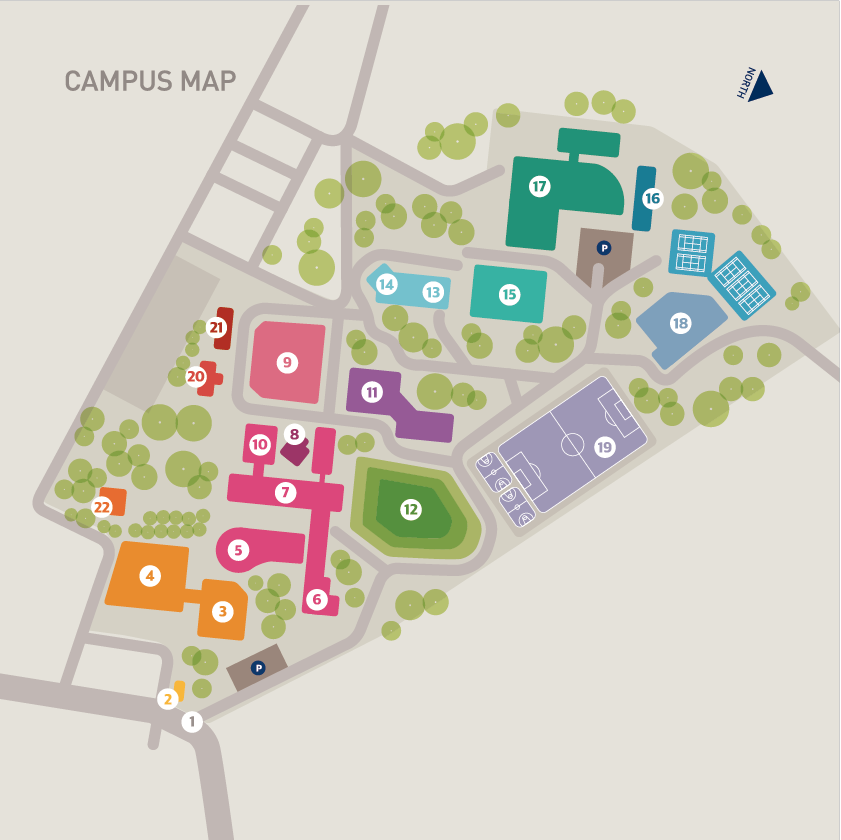
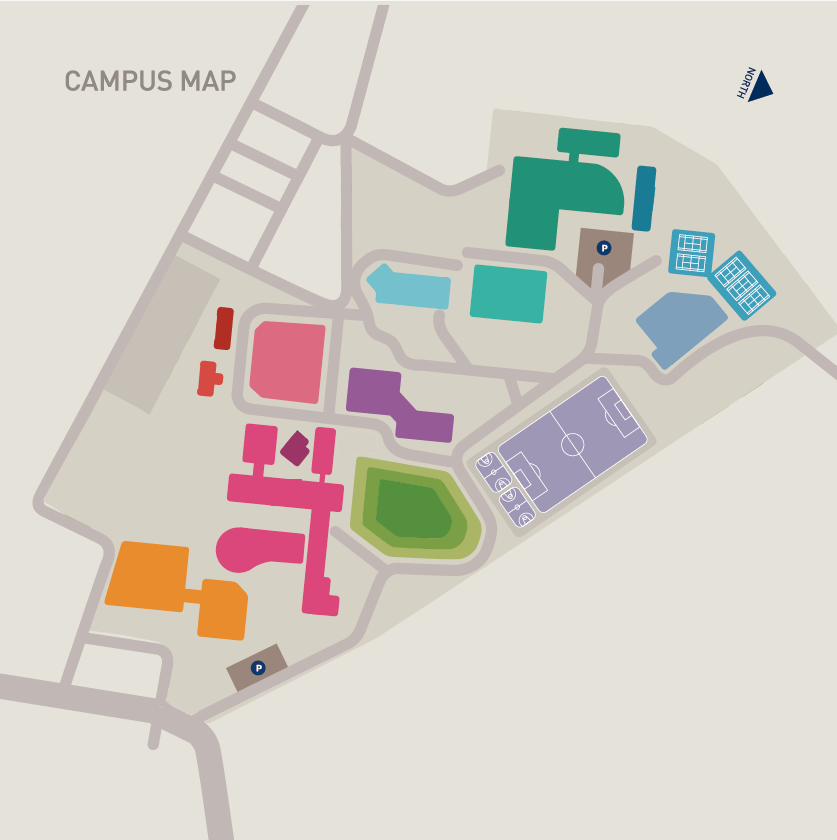
feat: 부스 전체보기 버튼 생성 + 지도 이미지 변경

diff --git a/src/pages/index.jsx b/src/pages/index.jsx
@@ -2,10 +2,12 @@ import Layout from "../components/Layout/layout";
 import React from "react";
 import { SectionsContainer, Section } from "react-fullpage";
 import Booth from "../components/booth";
+import { useNavigate } from "react-router-dom";
+import styled from "styled-components";
 
 const options = {
   activeClass: "active", // the class that is appended to the sections links
-  anchors: [1, 2, "booth", 4], // the anchors for each sections
+  anchors: [1, 2, 3, "booth"], // the anchors for each sections
   arrowNavigation: true, // use arrow keys
   className: "SectionContainer", // the class name for the section container
   delay: 1000, // the scroll animation speed
@@ -18,17 +20,39 @@ const options = {
   // => in the render() method of your app
 };
 
+const BoothButton = styled.button`
+  color: white;
+  background-color: tomato;
+  width: 200px;
+  height: 120px;
+  border-radius: 50px;
+`;
+const Wrapper = styled.div`
+  display: flex;
+  justify-content: center;
+  align-items: center;
+  height: 100vh;
+`;
 function IndexPage() {
+  const navigate = useNavigate();
   return (
     <div>
       <Layout>
         <SectionsContainer {...options}>
           <Section>Page 1</Section>
           <Section>Page 2</Section>
-          <Section>
-            <Booth />
+          <Section>Page 3</Section>
+          <Section anchors="booth">
+            <Wrapper>
+              <BoothButton
+                onClick={() => {
+                  navigate("/booth/detail");
+                }}
+              >
+                부스 전체보기
+              </BoothButton>
+            </Wrapper>
           </Section>
-          <Section>Page 4</Section>
         </SectionsContainer>
       </Layout>
     </div>

diff --git a/src/components/booth.jsx b/src/components/booth.jsx
@@ -1,14 +1,16 @@
 import React, { useState } from "react";
 import styled from "styled-components";
-import BoothImg from "../assets/booth.png";
+import BoothImg from "../assets/booth_final.png";
+import { useNavigate } from "react-router-dom";
 
 const Img = styled.div`
+  padding-top: 20px;
   width: 600px;
   height: 600px;
-  margin: auto;
   @media (min-width: 350px) and (max-width: 720px) {
     width: 350px;
     height: 350px;
+    padding-top: 10px;
   }
 `;
 const Container = styled.div`
@@ -32,6 +34,7 @@ const Button = styled.button`
 `;
 
 function Booth() {
+  const navigate = useNavigate();
   const [isClicked, setIsClicked] = useState(false);
   const [selectedId, setSelectedId] = useState(null);
   const handleButtonClick = (id) => {
@@ -51,8 +54,18 @@ function Booth() {
 
   return (
     <div>
+      <button
+        style={{
+          color: "white",
+        }}
+        onClick={() => {
+          navigate("/");
+        }}
+      >
+        뒤로가기
+      </button>
       <Img>
-        <img src={BoothImg}></img>
+        <img src={BoothImg} alt="boothImage"></img>
       </Img>
       <Container>
         {buttons.map((button) => (

diff --git a/src/App.js b/src/App.js
@@ -2,6 +2,7 @@ import "./App.css";
 import { BrowserRouter, Route, Routes } from "react-router-dom";
 import IndexPage from "./pages";
 import { ThemeProvider } from "styled-components";
+import Booth from "./components/booth";
 
 const theme = {
   colors: {
@@ -16,6 +17,7 @@ function App() {
       <BrowserRouter>
         <Routes>
           <Route path="/" exact={true} element={<IndexPage />} />
+          <Route path="/booth/detail" element={<Booth />} />
         </Routes>
       </BrowserRouter>
     </ThemeProvider>
